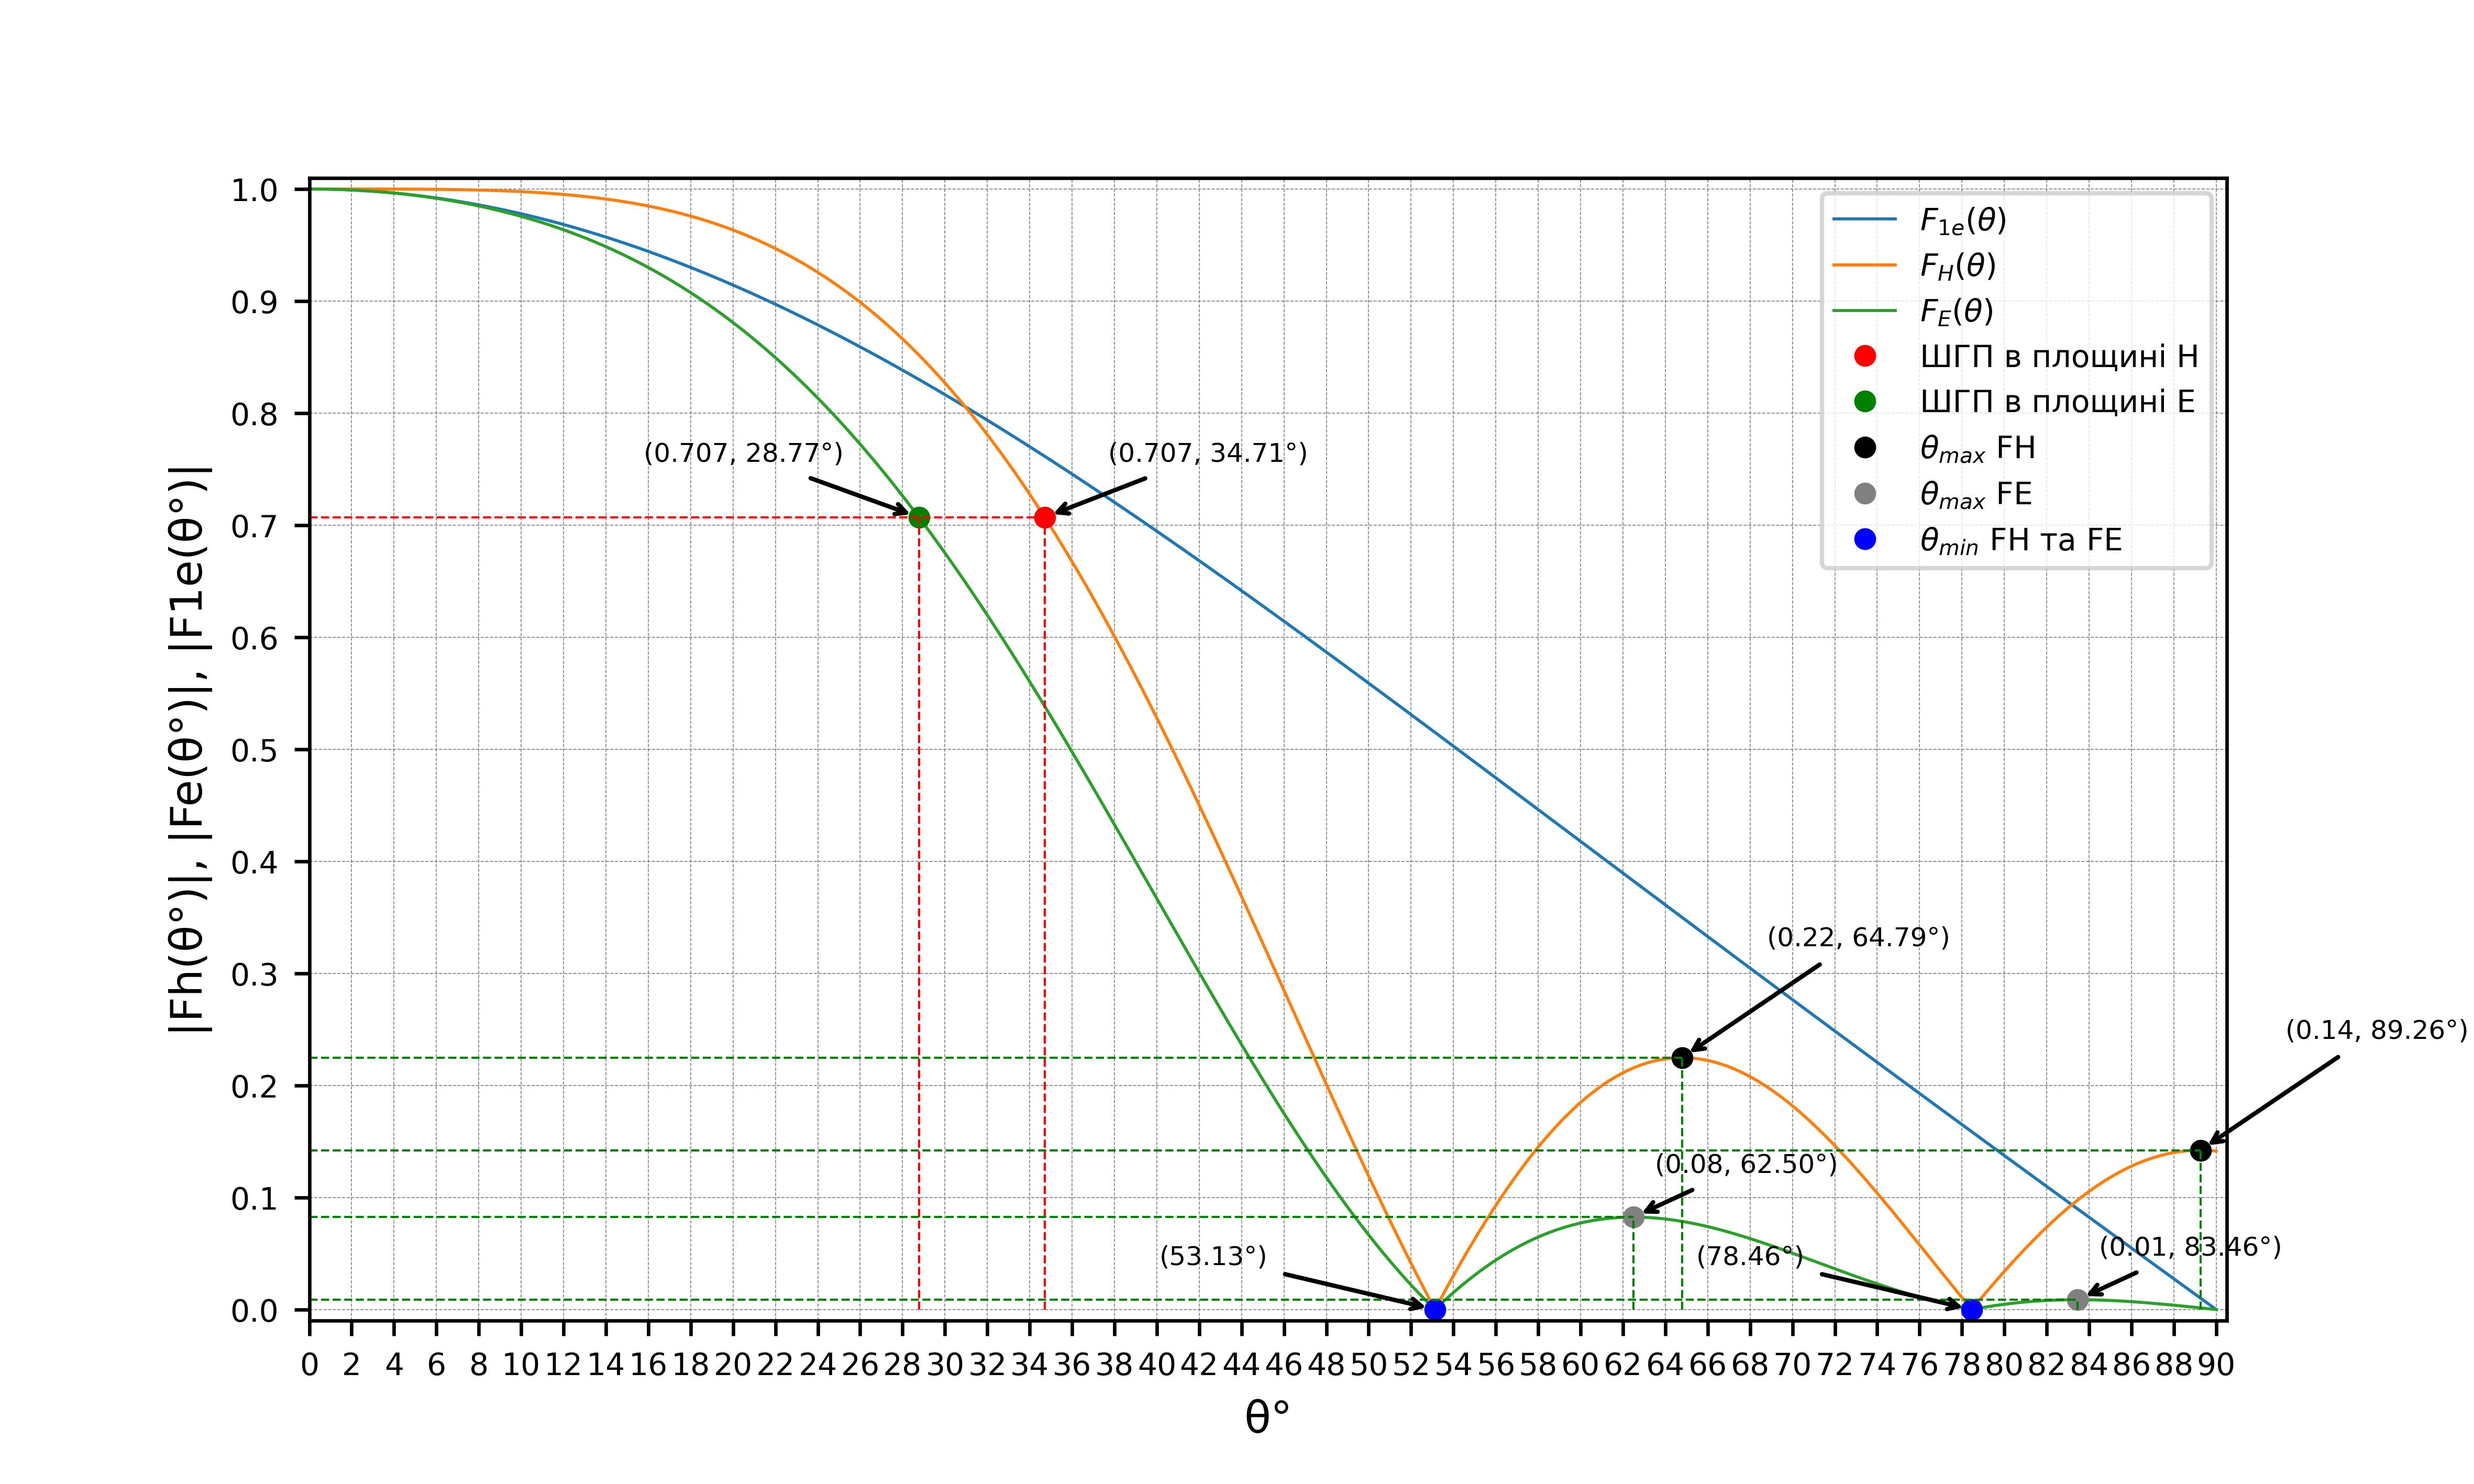
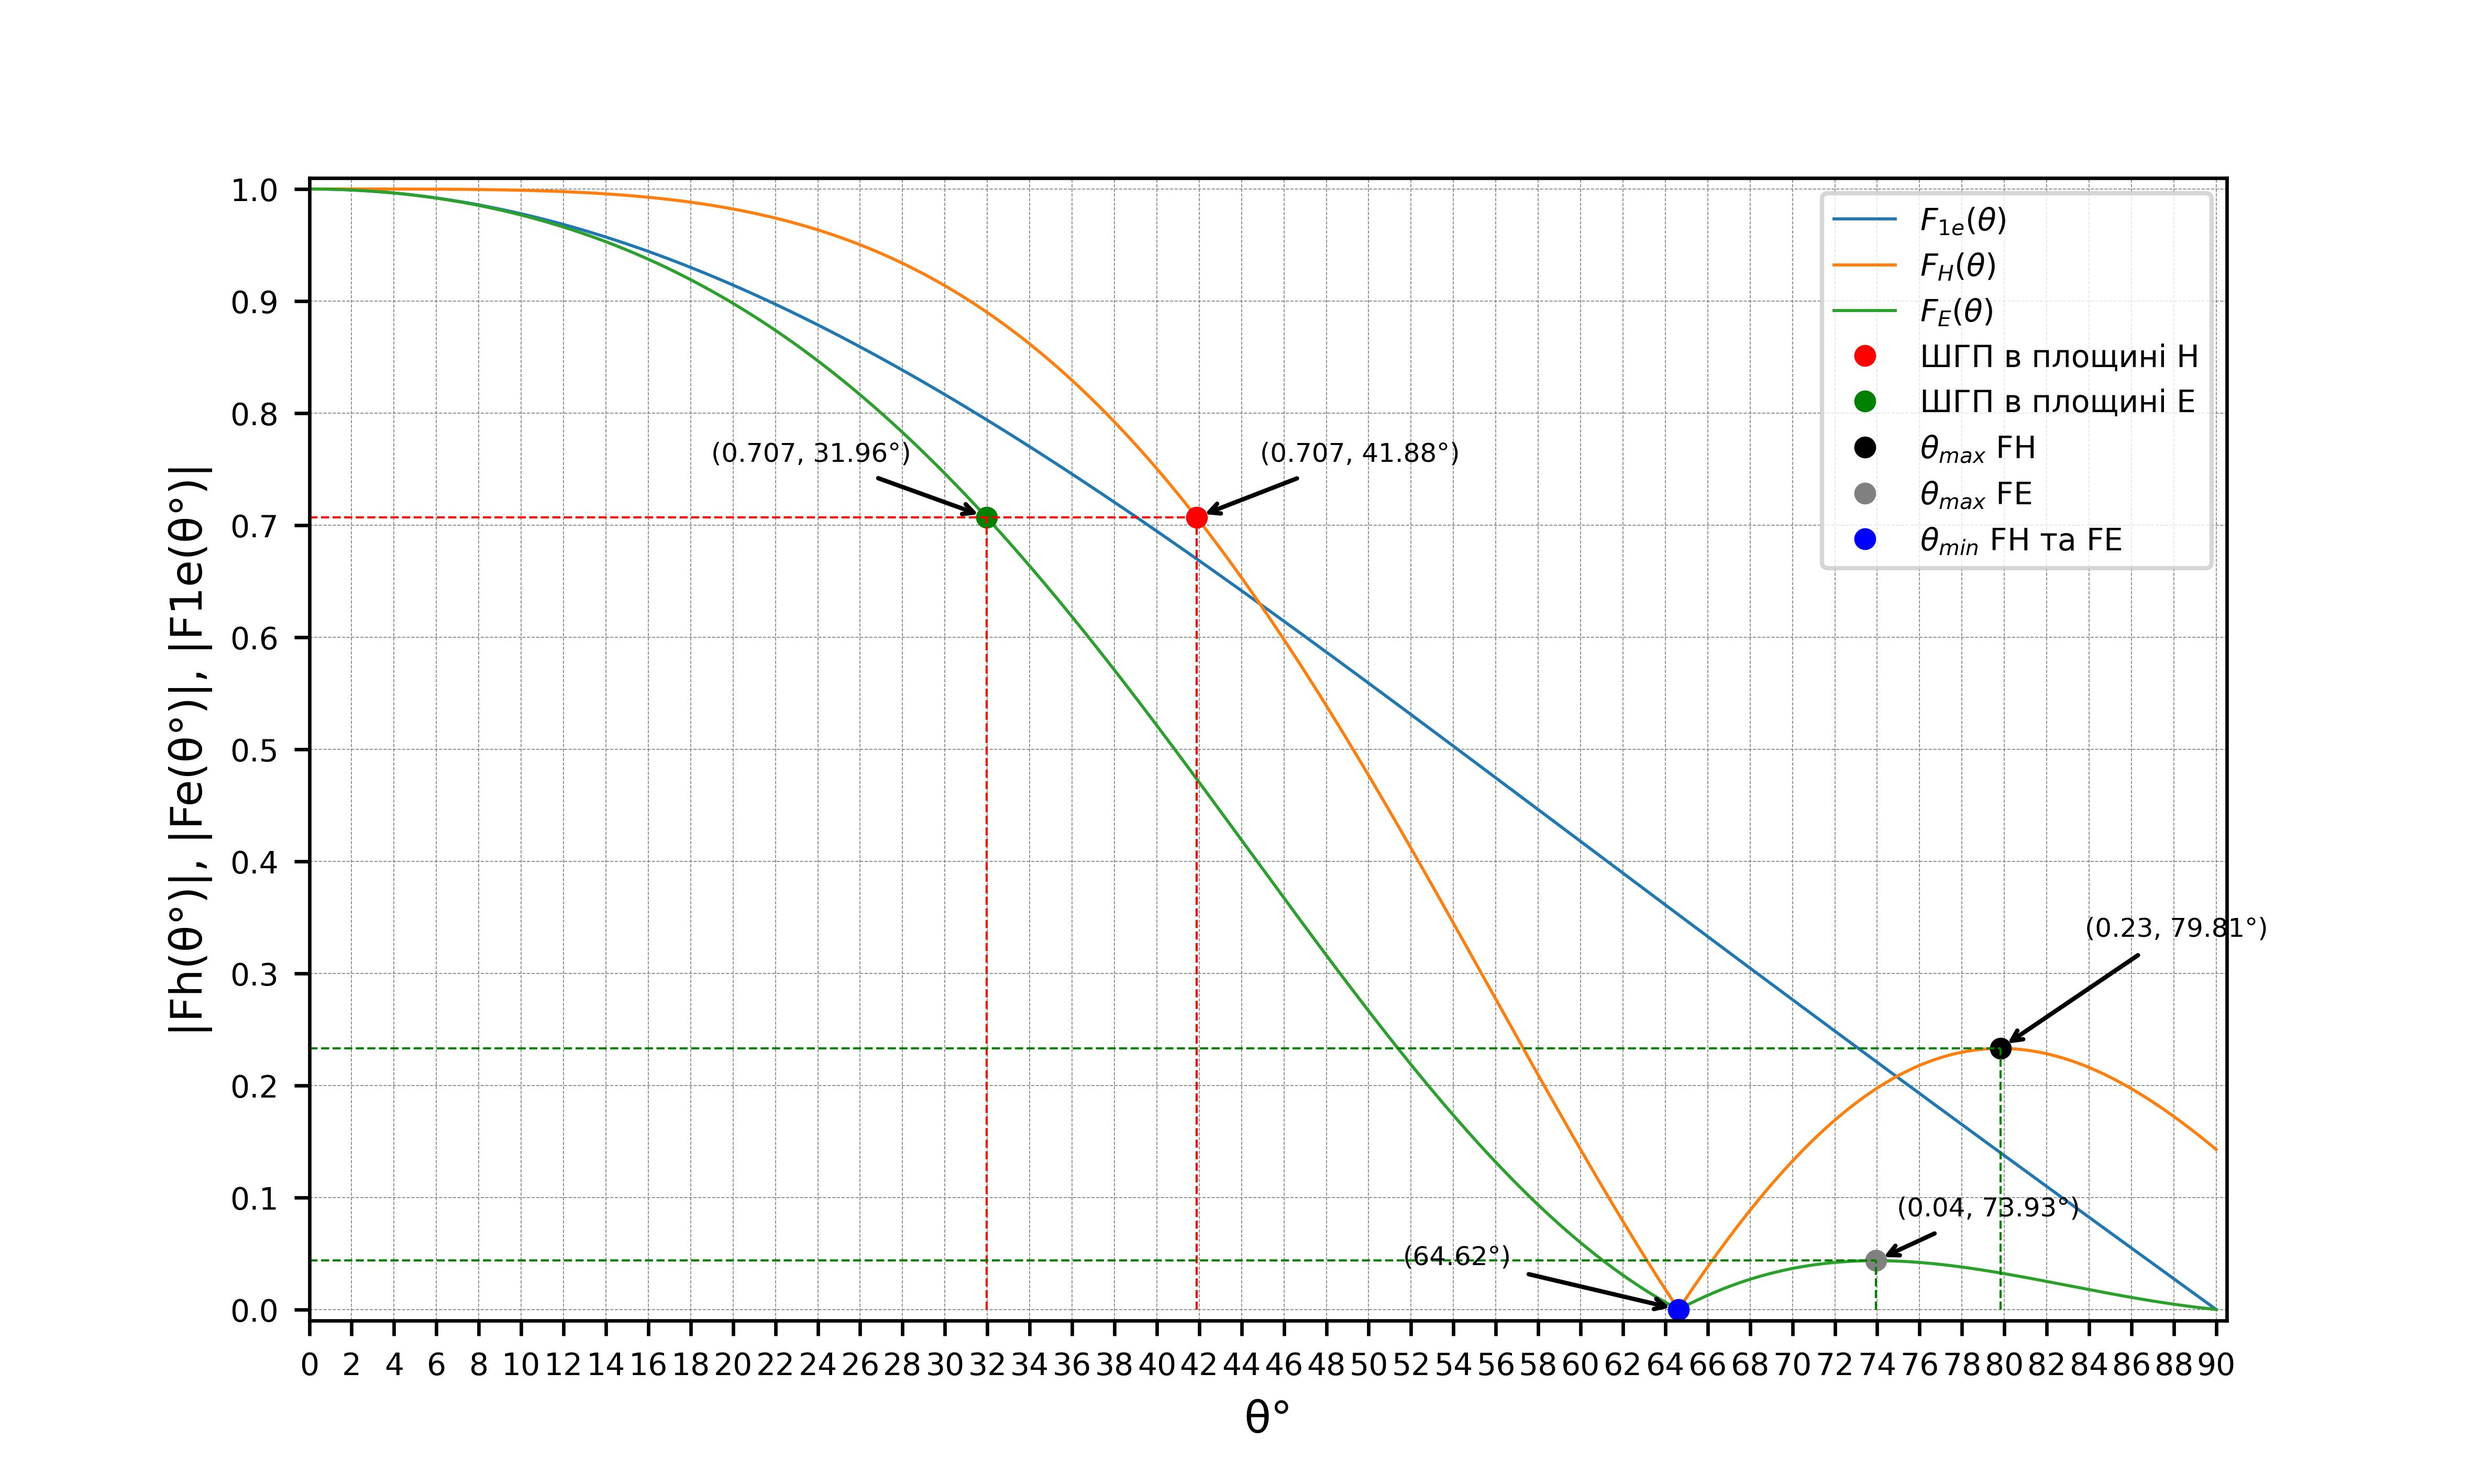
Lab2 var21

diff --git a/Lab2/main.py b/Lab2/main.py
@@ -24,7 +24,7 @@ min_x_FE = []
 min_y_FE = []
 
 # Вариант №7
-N = 10
+N = 7
 F = 540 * 10 ** 6
 
 lambd = 299792458 / F
